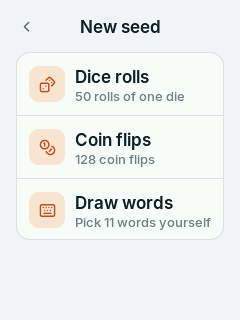
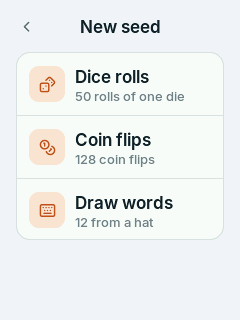
New seed: Draw words says "12 from a hat"
"Pick 11 words yourself" read as choosing words, and chosen words can be
guessed. "From a hat" says draw means pull at random, and 12 is the goal;
the last word's coin flips are asked for when you get there.

Changed region(s): [[0.2917, 0.6562, 0.875, 0.7188]]

diff --git a/firmware/src/app/ui.cpp b/firmware/src/app/ui.cpp
@@ -1077,7 +1077,7 @@ static void build_new_seed() {
     lv_obj_align(r2, LV_ALIGN_TOP_MID, 0, 63);
     divider(c, 125);
     char draw[32];
-    snprintf(draw, sizeof(draw), "Pick %d words yourself", new_words - 1);
+    snprintf(draw, sizeof(draw), "%d from a hat", new_words);
     lv_obj_t *r3 = list_row(c, ICON_KEYBOARD, "Draw words", draw, draw_cb);
     lv_obj_align(r3, LV_ALIGN_TOP_MID, 0, 126);
     show(scr);
